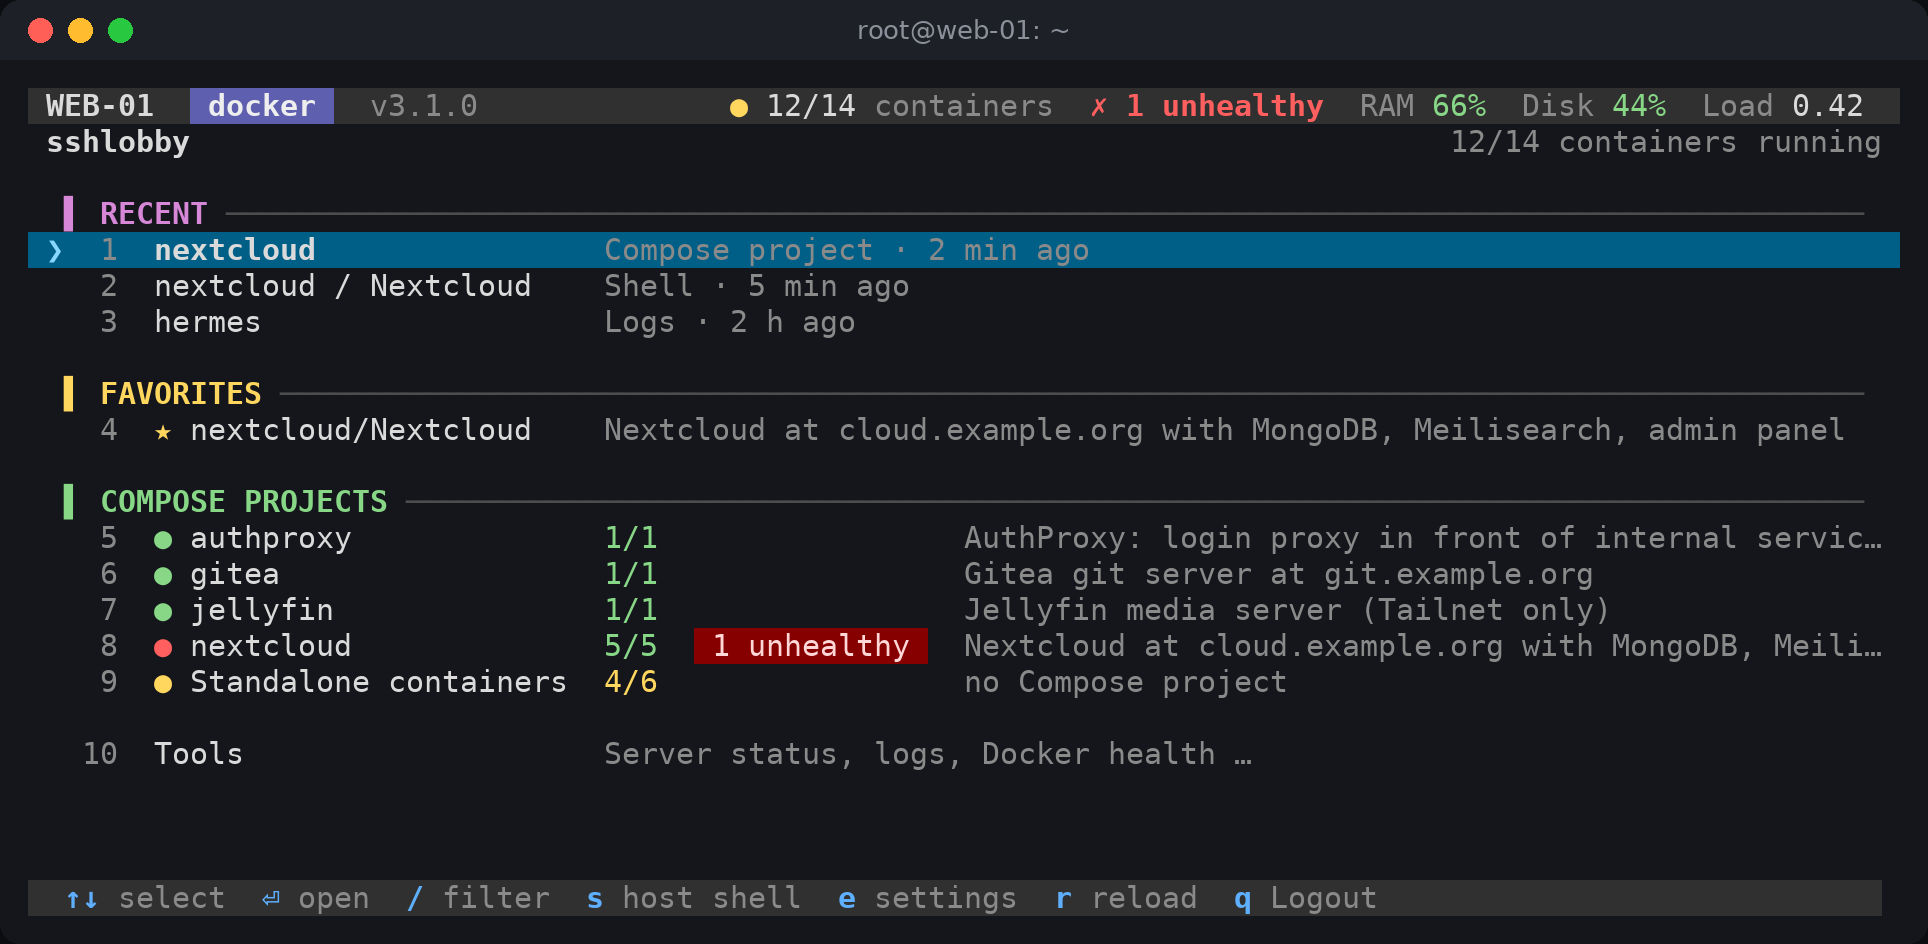
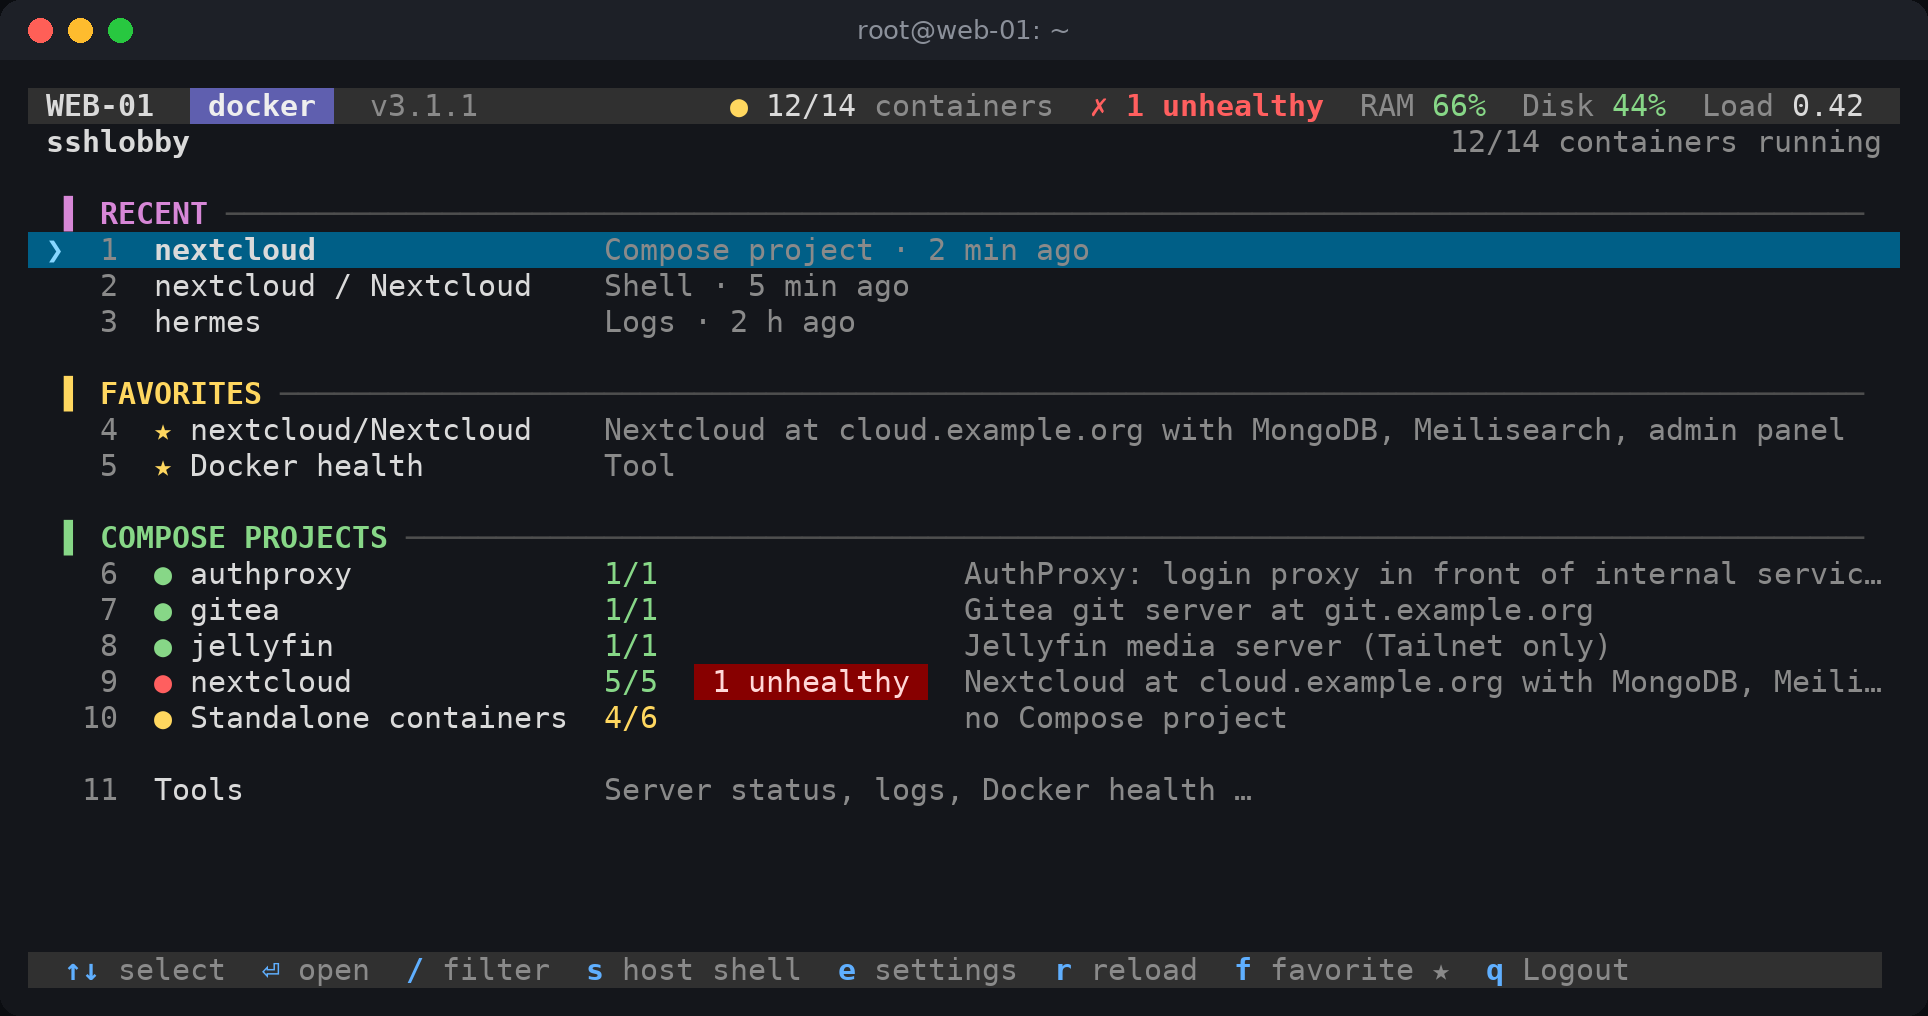
Favorites with f on the selected line, projects and tools as favorites; ports fit 80 columns
- ui_menu returns the value of the selected line in UI_KEYROW for every hotkey (TUI: cursor,
  line mode: "f 3"); after a hotkey the cursor stays on that line.
- Key f in the main menu, project screen, CT screen, Docker health and tools menu toggles the
  favorite of the selected line (fav_key, main_fav). Compose projects (project|-) and tools
  (@tool|id) can be favorites; the main menu lists and opens them, tools carry a star.
- Ports & listeners: column widths per section from the data, published Docker ports as
  "docker" plus container, public port list and hints wrap, so lines fit 80 columns.
- Hermes instance screen: "Show errors.log" and "Show agent.log" instead of "Error log".
- Footer drops the arrow hint before the filter hint.
- Tests: tests/test_favorites.sh, ports width check, adjusted counts and hermes items.
- Docs, screenshots, CHANGELOG, version 3.1.1.

diff --git a/docs/ARCHITECTURE.md b/docs/ARCHITECTURE.md
@@ -147,7 +147,7 @@ The key names in this example are placeholders. Look up the real ones in `lang/*
 | `UI_ROOT=1` | Main menu: `q` = quit, back keys do nothing, footer shows "q Logout" (or "q Shell" with `Q_ACTION=shell`) |
 | `UI_STYLE=main` | Dashboard header instead of the title line (uses `HOST_LABEL`, `VERSION`, `MODE`, `SYS_*`) |
 | `UI_PRESEL=value` | Initial cursor position. Without it: the value selected last under the same title, else the first entry |
-| `ui_menu title [subtitle]` | Shows the menu. Sets `UI_ACT` to `select`, `key`, `back`, `quit` (only with `UI_ROOT=1`) or `eof`, plus `UI_SEL`. Always returns 0. Afterwards `UI_ITEMS UI_INFO UI_KEYS UI_ROOT UI_STYLE UI_PRESEL` are empty |
+| `ui_menu title [subtitle]` | Shows the menu. Sets `UI_ACT` to `select`, `key`, `back`, `quit` (only with `UI_ROOT=1`) or `eof`, plus `UI_SEL`. With `key`, `UI_KEYROW` holds the value of the selected line (TUI: cursor; line mode: input like `f 3`), otherwise it is empty. Always returns 0. Afterwards `UI_ITEMS UI_INFO UI_KEYS UI_ROOT UI_STYLE UI_PRESEL` are empty |
 
 Numbers: selectable entries are numbered from 1, identically in both presentations.
 Values (`value`) must not contain `|`. The screens use `kind:a:b` (names of CTs, projects and
@@ -309,7 +309,7 @@ unchanged. `install.sh` copies all `lib/*.sh` and `lang/*.txt`. Texts of a new t
 | `~/.config/sshlobby/config` | `KEY=value`, never sourced. Keys: `MODE`, `HOST_LABEL` (display name, asked by the setup; the fast-path hint uses it only if it can be an SSH alias), `CVE_CT`, `CVE_DIR`, `SSH_HOSTS`, `AUTOSTART`, `Q_ACTION`, `UI`, `COLOR`, `SYMBOLS`, `RECENT_MAX`, `HERMES_SCAN_CTS`, `LANGUAGE`. Meaning and defaults are documented at `cfg_load`. Unknown keys and broken lines are ignored, quotes and CRLF are tolerated |
 | `~/.config/sshlobby/descriptions` | `name\|text` for CTs, projects, containers (`PD_DESC[name]`) |
 | `~/.config/sshlobby/recents` | `epoch\|group\|target\|action`, at most 200, actions `shell logs compose` (container), `ctshell` (CT), `project` (Compose project, target `-`), `tool` (group `@tool`, target = tool id) |
-| `~/.config/sshlobby/favorites` | `group\|target` |
+| `~/.config/sshlobby/favorites` | `group\|target`: `group\|container`, `ct\|-` (Incus container; in docker mode the whole Compose project), `@tool\|id` (tool) |
 | `~/.config/sshlobby/service-favorites` | Favourite systemd units of the "systemd services" tool |
 | `~/.config/sshlobby/backups/<YYYYMMDD-hhmmss>/` | Backups made by the settings menu before a reset or restore, the newest 10 are kept |
 
@@ -321,7 +321,10 @@ Entries of the same second keep their file order (newest last in the file, first
 The main menu hides entries that do not fit the mode and all tool entries; the tools menu shows
 the tool entries. Opening a recent container that no longer exists removes the entry
 (`state_del_recent`).
-Favourites pointing to targets that no longer exist are marked and can be removed.
+Favourites pointing to targets that no longer exist are marked and can be removed. The key `f`
+toggles the favourite of the selected line: `ui_menu` returns the value of that line in
+`UI_KEYROW` for every hotkey (TUI: cursor, line mode: `f 3`), `fav_key group target name` toggles
+and reports, `main_fav` maps the values of the main menu.
 
 Exit codes: `PD_EXIT_OK=0`, `PD_EXIT_ERR=1`, `PD_EXIT_USAGE=2`, `PD_EXIT_SHELL=10` (host shell),
 `PD_EXIT_LOGOUT=20` (only this one logs out in the `~/.bashrc` hook).

diff --git a/CHANGELOG.md b/CHANGELOG.md
@@ -2,6 +2,22 @@
 
 All notable changes to sshlobby. Versions follow [semantic versioning](https://semver.org/).
 
+## 3.1.1 (2026-10-13)
+
+- Favorites from every list: the key `f` adds or removes the selected line as a favorite, in the main
+  menu, the project screen, the Incus container screen, Docker health and the tools menu. Before, `f`
+  existed only in the container and Incus container screens. Without a terminal: `f 3` for line 3.
+- Compose projects can be favorites (main menu "Favorites", Enter opens the project).
+- Tools can be favorites: they appear in the main menu under "Favorites" and open directly, and carry
+  a ★ in the tools menu.
+- After `f` the cursor stays on the same line.
+- Footer: when space is short, `↑↓ select` is dropped before `/ filter` (as the UI docs describe).
+- Ports & listeners: lines fit into 80 columns again. Column widths come from the data, published
+  Docker ports show "docker" and the container name, the list of public ports and the hints wrap.
+  Before, the container name at the end of a line was cut off.
+- Hermes instances: the entries "Error log" and "Agent log" are now "Show errors.log" and "Show
+  agent.log", so "Error log" is only the tool of that name.
+
 ## 3.1.0 (2026-10-13)
 
 - The tool "Docker health scan" is now **Docker health**, a menu instead of a text page.

diff --git a/README.md b/README.md
@@ -78,7 +78,7 @@ Coding agents find step-by-step instructions in [CLAUDE.md](CLAUDE.md).
 | `←`, `Esc`, `h`, `b`, Backspace | back |
 | `/` | filter the list as you type |
 | `1`…`9` | jump to an entry |
-| `f` | add or remove a favorite (container, Incus container and service screens) |
+| `f` | add or remove the selected line as a favorite: Compose project, container, Incus container or tool (main menu, project and container screens, Docker health, tools menu, services). Without a terminal: `f 3` for line 3 |
 | `s` | normal shell on the host |
 | `e` | settings |
 | `u` | install a new release (only shown when one is available) |
@@ -86,7 +86,8 @@ Coding agents find step-by-step instructions in [CLAUDE.md](CLAUDE.md).
 | `q` | log out (main menu) or back |
 
 The main menu shows recent targets (Compose projects, containers, Incus containers, each with the
-action it repeats) and favorites at the top, then the projects or containers, then the server tools.
+action it repeats) and favorites (projects, containers, Incus containers, tools) at the top, then the
+projects or containers, then the server tools.
 Recently used tools appear at the top of the tools menu. Before a shell opens, sshlobby checks that the container is running. Ctrl-C in
 logs, shells and tools only stops that command and returns to the menu.
 

diff --git a/docs/UI.md b/docs/UI.md
@@ -28,7 +28,7 @@ Every screen has the same layout across the full terminal width:
     2  ● nextcloud-redis redis:7-alpine             5 d   healthy
 
  · Status line (messages, filter, loading hint)
-  ↑↓ select  ⏎ open  esc back  / filter  f add favourite ☆  q back                                 1–20/45
+  ↑↓ select  ⏎ open  esc back  / filter  f favorite ★  q back                                 1–20/45
 ```
 
 - **Header** (bar): display name (`HOST_LABEL`), mode as a badge, version. On the right the
